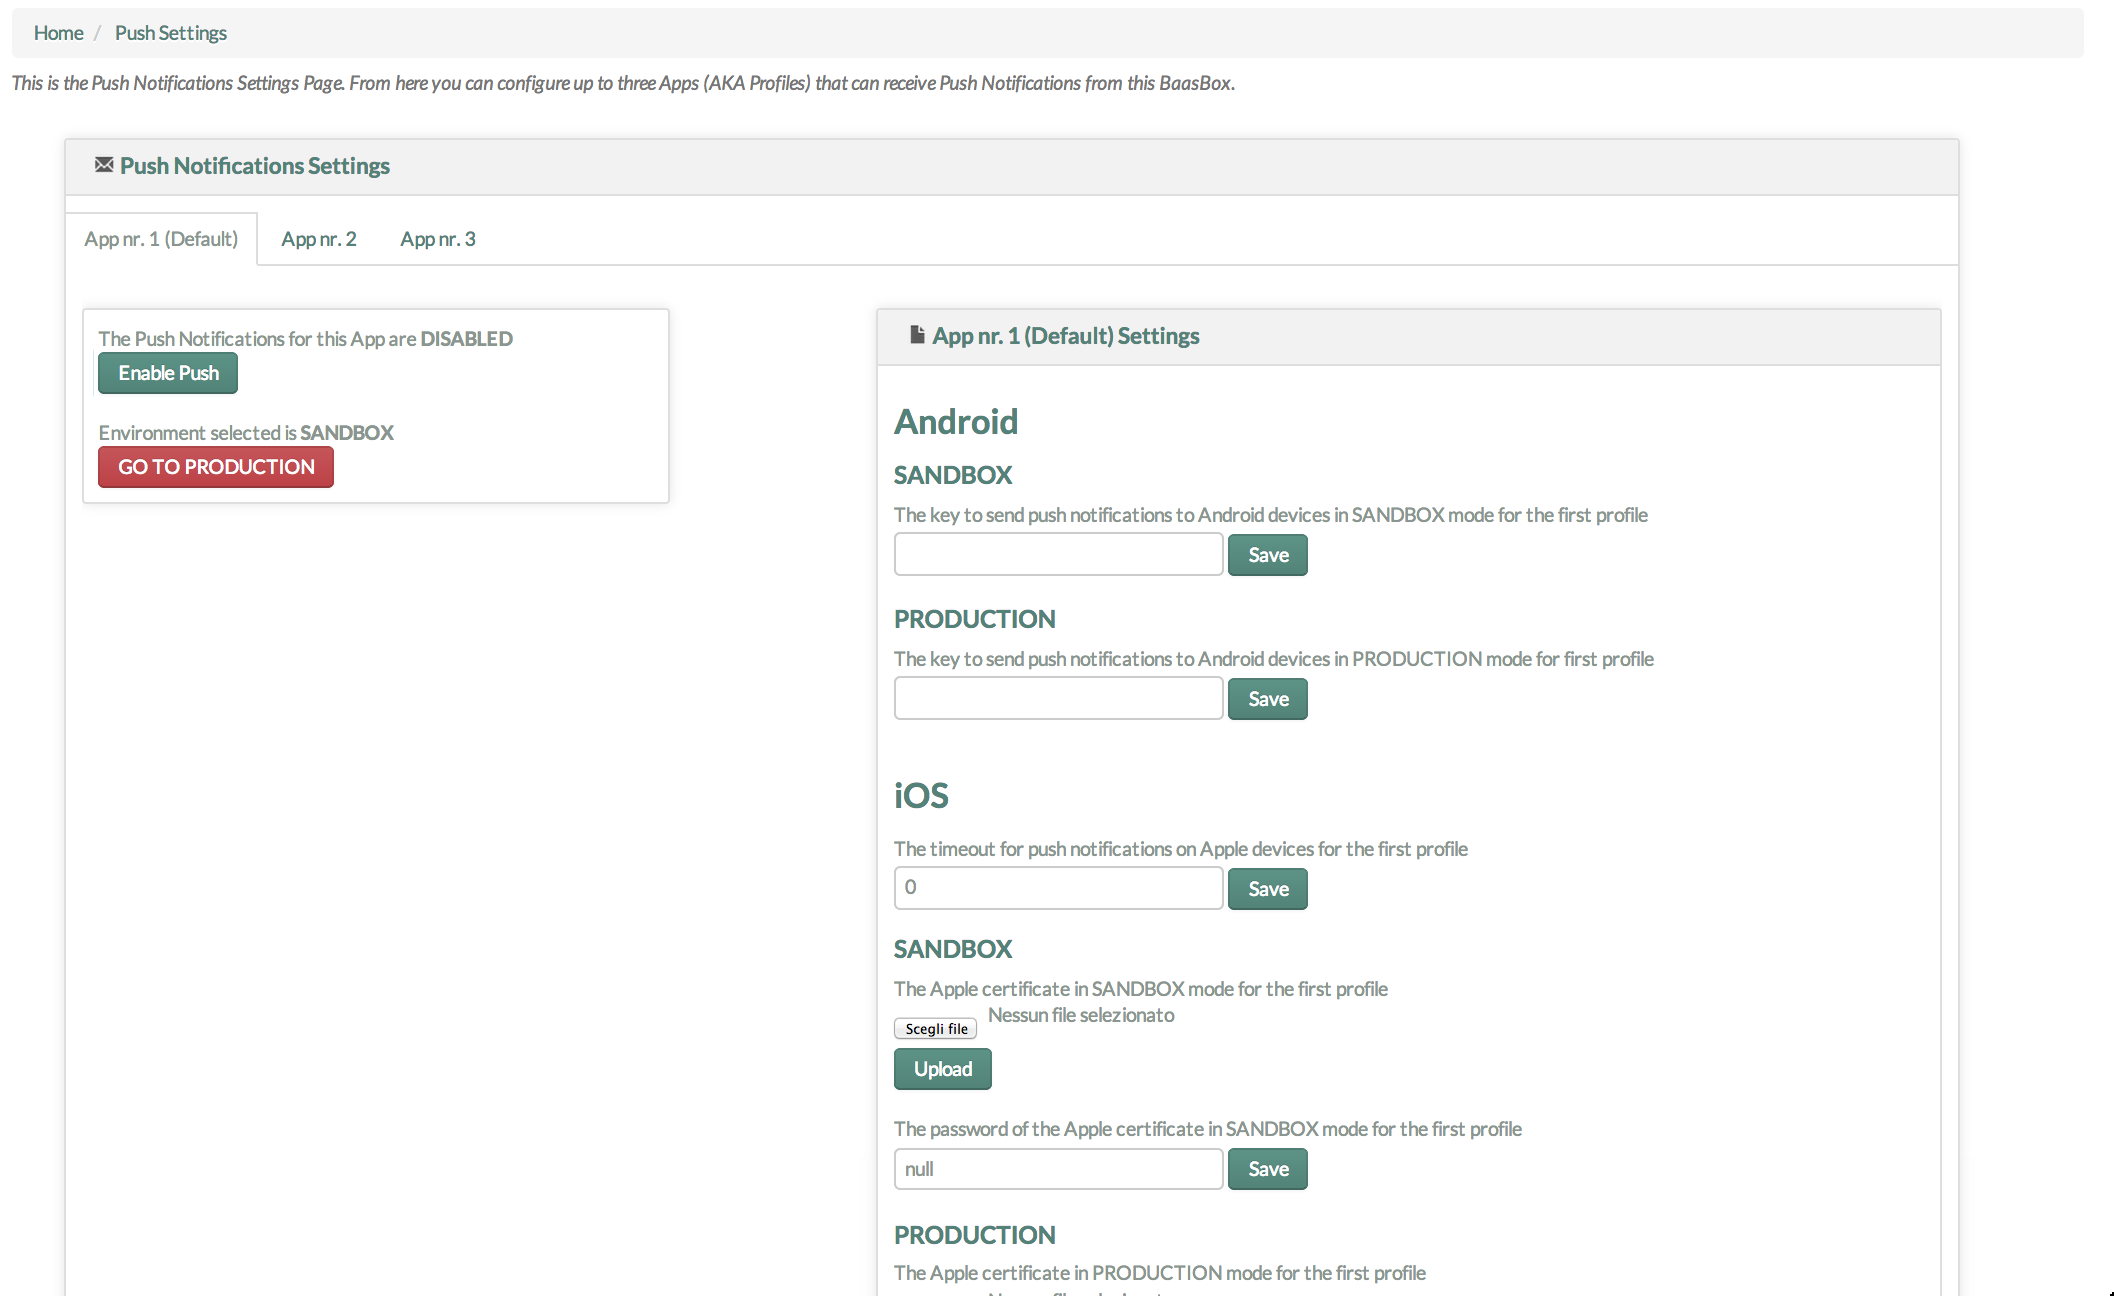
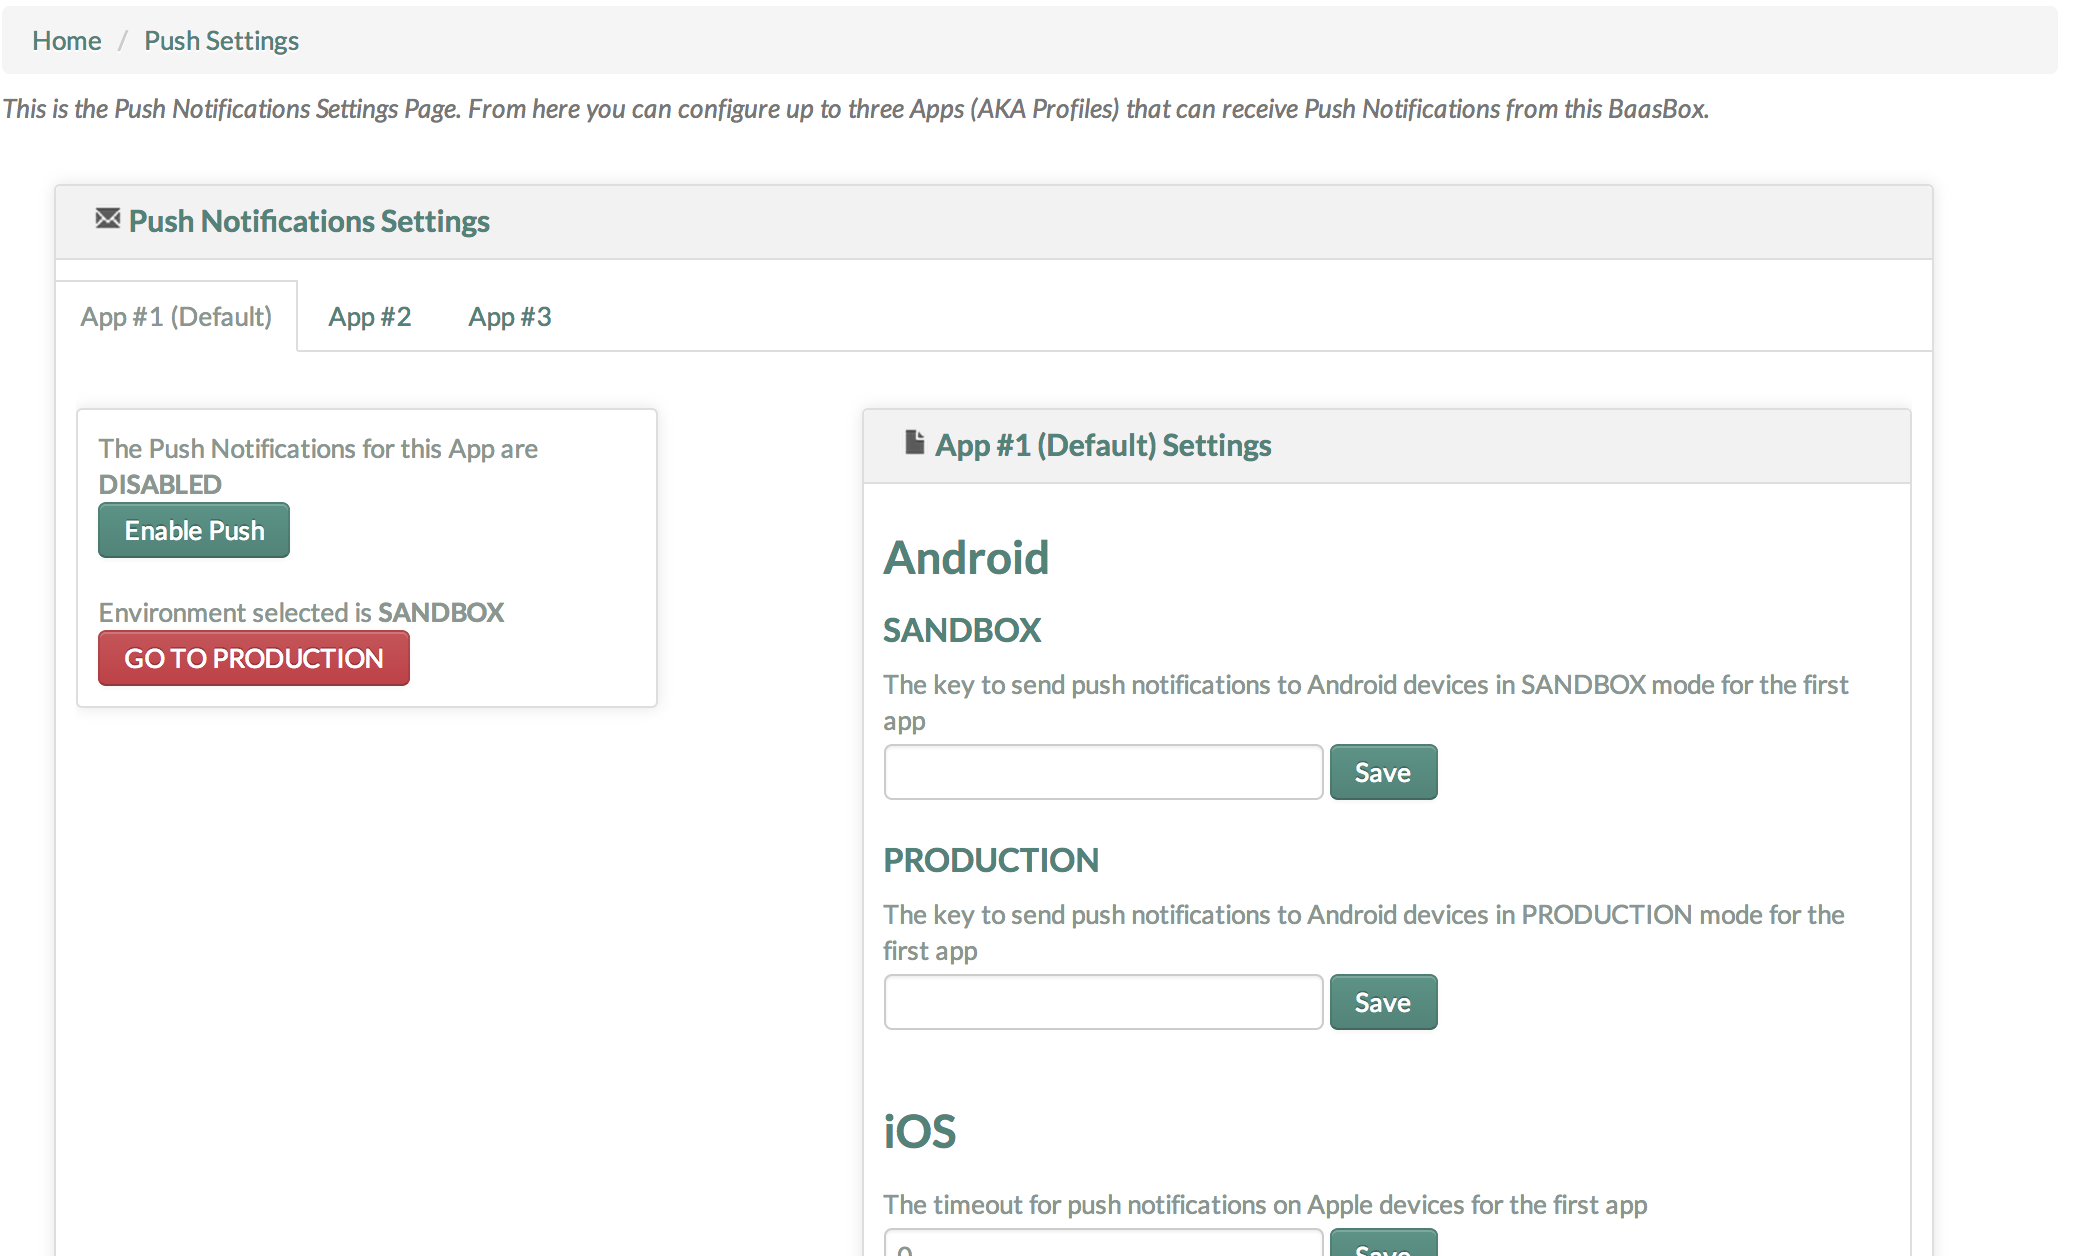
add updated screenshot

diff --git a/source/index.md b/source/index.md
@@ -269,36 +269,38 @@ i.e. an administration app and a customer app for a store, or it's possible to d
 
 New section on console, Push Settings available directly in leftmenu.
 
+**N.B.: Apps must be turned on after being configured**
+
 Options for the Push Notifications feature
 
 Key | Description | Default
 --------- | ----------- | -------------
-**profile1.push.sandbox.enable** | The value to verify if BaasBox needs to contact the SANDBOX server or the PRODUCTION server for the first profile| `true` i.e. it is in SANDBOX mode
-**profile1.push.apple.timeout**  | The timeout for push notifications on Apple devices for the first profile| `0` - no timeout
-**profile1.sandbox.android.api.key** | The key to send push notifications to Android devices in SANDBOX mode for the first profile |
-**profile1.sandbox.ios.certificate** | The Apple certificate in SANDBOX mode for the first profile  | 
-**profile1.sandbox.ios.certificate.password**  | The password of the Apple certificate in SANDBOX mode for the first profile  |
-**profile1.production.ios.certificate**  | The Apple certificate in PRODUCTION mode for the first profile  |
-**profile1.production.ios.certificate.password**  | The password of the Apple certificate in PRODUCTION mode for the first profile |
+**profile1.push.sandbox.enable** | The value to verify if BaasBox needs to contact the SANDBOX server or the PRODUCTION server for the first app| `true` i.e. it is in SANDBOX mode
+**profile1.push.apple.timeout**  | The timeout for push notifications on Apple devices for the first app| `0` - no timeout
+**profile1.sandbox.android.api.key** | The key to send push notifications to Android devices in SANDBOX mode for the first app |
+**profile1.sandbox.ios.certificate** | The Apple certificate in SANDBOX mode for the first app  | 
+**profile1.sandbox.ios.certificate.password**  | The password of the Apple certificate in SANDBOX mode for the first app  |
+**profile1.production.ios.certificate**  | The Apple certificate in PRODUCTION mode for the first app  |
+**profile1.production.ios.certificate.password**  | The password of the Apple certificate in PRODUCTION mode for the first app |
 **profile1.push.profile.enable** | Enable this profile | `false`
-**profile2.push.sandbox.enable** | The value to verify if BaasBox needs to contact the SANDBOX server or the PRODUCTION server for the second profile| `true` i.e. it is in SANDBOX mode
-**profile2.push.apple.timeout**  | The timeout for push notifications on Apple devices for the second profile| `0` - no timeout
-**profile2.sandbox.android.api.key** | The key to send push notifications to Android devices in SANDBOX mode for the second profile |
-**profile2.sandbox.ios.certificate** | The Apple certificate in SANDBOX mode for the second profile  | 
-**profile2.sandbox.ios.certificate.password**  | The password of the Apple certificate in SANDBOX mode for the second profile  |
-**profile2.production.ios.certificate**  | The Apple certificate in PRODUCTION mode for the second profile  |
-**profile2.production.ios.certificate.password**  | The password of the Apple certificate in PRODUCTION mode for the second profile |
+**profile2.push.sandbox.enable** | The value to verify if BaasBox needs to contact the SANDBOX server or the PRODUCTION server for the second app| `true` i.e. it is in SANDBOX mode
+**profile2.push.apple.timeout**  | The timeout for push notifications on Apple devices for the second app| `0` - no timeout
+**profile2.sandbox.android.api.key** | The key to send push notifications to Android devices in SANDBOX mode for the second app |
+**profile2.sandbox.ios.certificate** | The Apple certificate in SANDBOX mode for the second app  | 
+**profile2.sandbox.ios.certificate.password**  | The password of the Apple certificate in SANDBOX mode for the second app  |
+**profile2.production.ios.certificate**  | The Apple certificate in PRODUCTION mode for the second app  |
+**profile2.production.ios.certificate.password**  | The password of the Apple certificate in PRODUCTION mode for the second app |
 **profile2.push.profile.enable** | Enable this profile | `false`
-**profile3.push.sandbox.enable** | The value to verify if BaasBox needs to contact the SANDBOX server or the PRODUCTION server for the third profile| `true` i.e. it is in SANDBOX mode
-**profile3.push.apple.timeout**  | The timeout for push notifications on Apple devices for the third profile| `0` - no timeout
-**profile3.sandbox.android.api.key** | The key to send push notifications to Android devices in SANDBOX mode for the third profile |
-**profile3.sandbox.ios.certificate** | The Apple certificate in SANDBOX mode for the third profile  | 
-**profile3.sandbox.ios.certificate.password**  | The password of the Apple certificate in SANDBOX mode for the third profile  |
-**profile3.production.ios.certificate**  | The Apple certificate in PRODUCTION mode for the third profile  |
-**profile3.production.ios.certificate.password**  | The password of the Apple certificate in PRODUCTION mode for the third profile |
+**profile3.push.sandbox.enable** | The value to verify if BaasBox needs to contact the SANDBOX server or the PRODUCTION server for the third app| `true` i.e. it is in SANDBOX mode
+**profile3.push.apple.timeout**  | The timeout for push notifications on Apple devices for the third app| `0` - no timeout
+**profile3.sandbox.android.api.key** | The key to send push notifications to Android devices in SANDBOX mode for the third app |
+**profile3.sandbox.ios.certificate** | The Apple certificate in SANDBOX mode for the third app  | 
+**profile3.sandbox.ios.certificate.password**  | The password of the Apple certificate in SANDBOX mode for the third app  |
+**profile3.production.ios.certificate**  | The Apple certificate in PRODUCTION mode for the third app  |
+**profile3.production.ios.certificate.password**  | The password of the Apple certificate in PRODUCTION mode for the third app |
 **profile3.push.profile.enable** | Enable this profile | `false`
 
-**N.B.: Apps must be turned on after being configured**
+
 
 
 ### Social Login
@@ -569,9 +571,9 @@ named group.
 
 ## Push Settings
 
-The Push Settings section allows you to enable/disable profiles for sending push notifications.
-From BaasBox 0.9.0 it is possible to manage profiles for sending push notifications.
-In particular BaasBox support **max three profiles**. It's possible to switch settings profile by the tab section.
+The Push Settings section allows you to enable/disable apps for sending push notifications.
+From BaasBox 0.9.0 it is possible to manage apps for sending push notifications.
+In particular BaasBox support **max three apps**. It's possible to switch app settings by the tab section.
 
 - App #1 (Default) is the section for the first app, which is the default app
 - App #2 is the section for the second app
